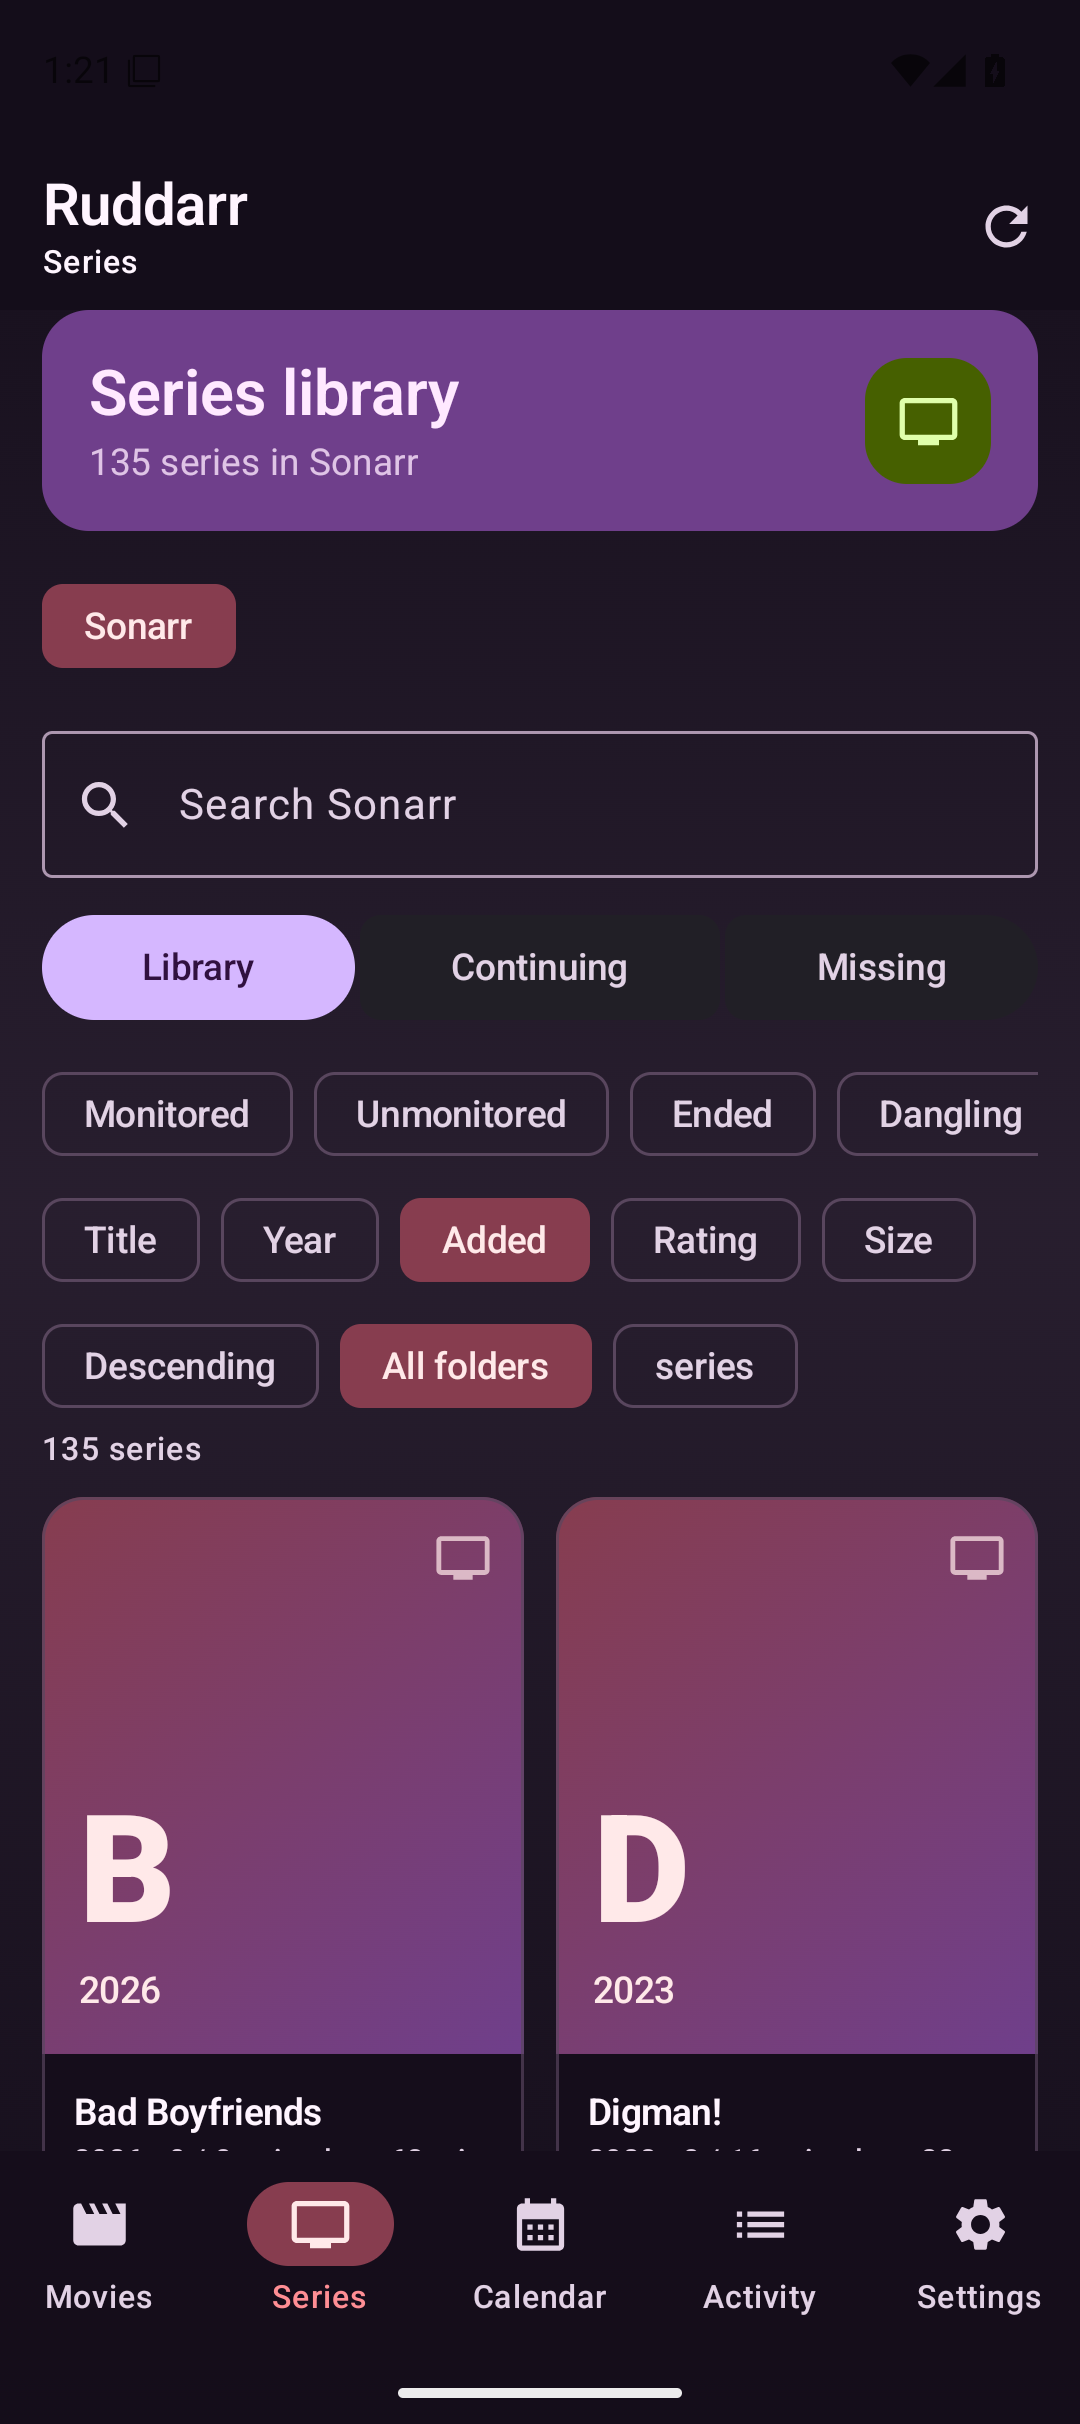
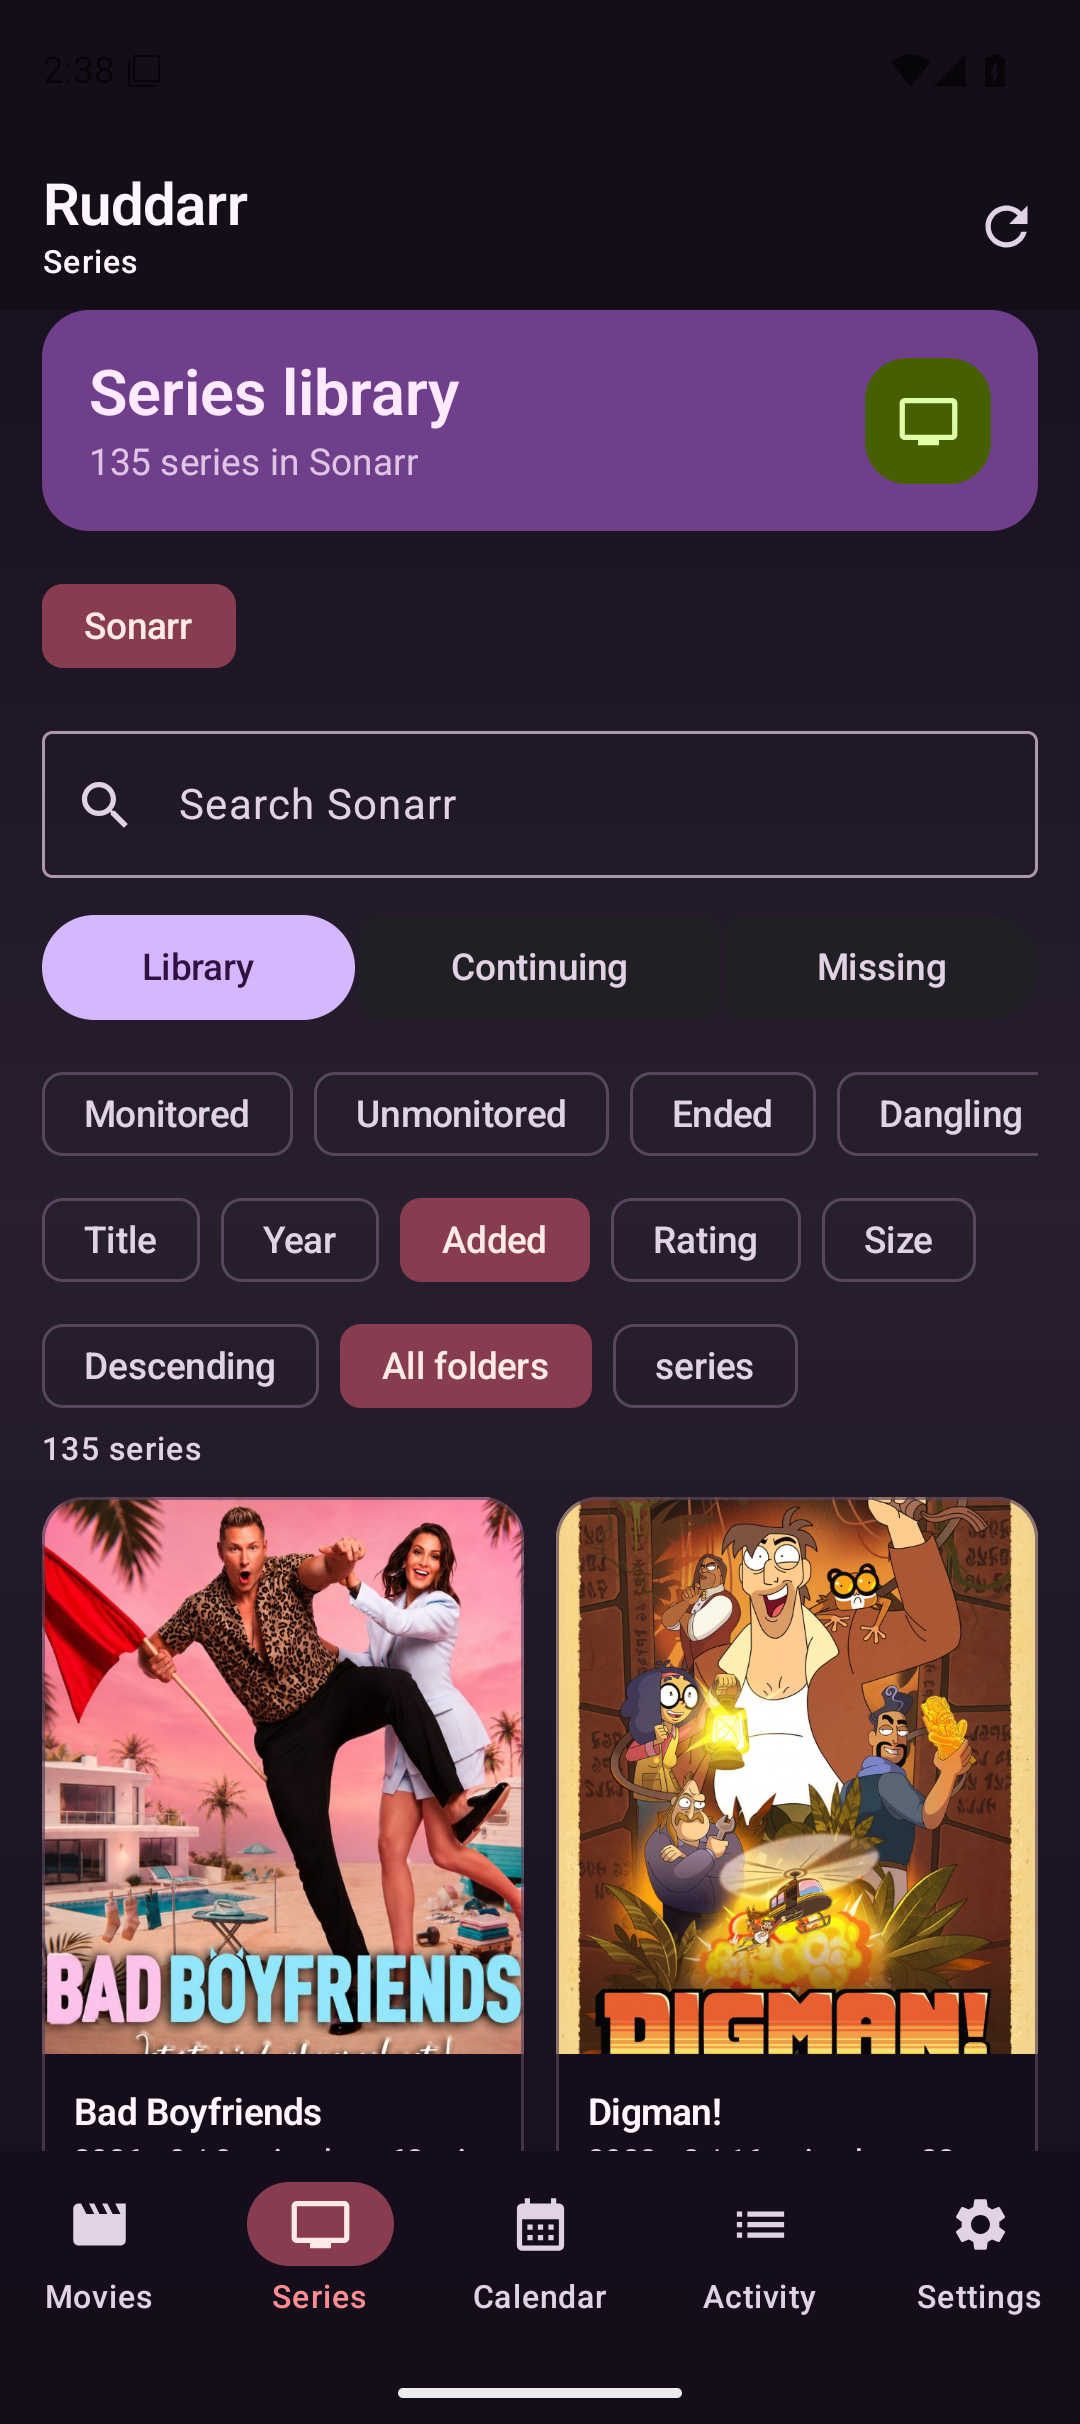
Fix Android library cover loading

Changed region(s): [[0.0306, 0.6188, 0.9778, 0.8663]]

diff --git a/app/src/main/java/uk/bleier/ruddarr/MainActivity.kt b/app/src/main/java/uk/bleier/ruddarr/MainActivity.kt
@@ -444,7 +444,7 @@ private fun MediaScreen(modifier: Modifier, service: ServiceType, state: AppStat
                 verticalArrangement = Arrangement.spacedBy(12.dp),
                 modifier = Modifier.fillMaxSize(),
             ) {
-                items(filtered, key = { "${service.name}-${it.id}-${it.title}" }) { record -> MediaCard(record) { if (record.raw.has("id")) viewModel.open(record) else viewModel.preview(record) }
+                items(filtered, key = { "${service.name}-${it.id}-${it.title}" }) { record -> MediaCard(record, record.posterUrl(instance)) { if (record.raw.has("id")) viewModel.open(record) else viewModel.preview(record) }
                 }
             }
         }
@@ -494,7 +494,7 @@ private fun List<MediaRecord>.filterAndSort(
 }
 
 @Composable
-private fun MediaCard(record: MediaRecord, onClick: () -> Unit) {
+private fun MediaCard(record: MediaRecord, posterUrl: String?, onClick: () -> Unit) {
     val colors = MaterialTheme.colorScheme
     val posterBase = if (record.service == ServiceType.RADARR) colors.primaryContainer else colors.secondaryContainer
     val posterAccent = if (record.service == ServiceType.RADARR) colors.tertiaryContainer else colors.primaryContainer
@@ -537,7 +537,7 @@ private fun MediaCard(record: MediaRecord, onClick: () -> Unit) {
                     tint = if (record.service == ServiceType.RADARR) colors.onPrimaryContainer.copy(alpha = 0.72f) else colors.onSecondaryContainer.copy(alpha = 0.72f),
                 )
                 AsyncImage(
-                    model = record.posterUrl,
+                    model = posterUrl,
                     contentDescription = "Poster for ${record.title}",
                     modifier = Modifier.fillMaxSize(),
                     contentScale = ContentScale.Crop,
@@ -567,7 +567,7 @@ private fun MediaSheet(record: MediaRecord, state: AppState, viewModel: RuddarrV
         ) {
             item {
                 Row(verticalAlignment = Alignment.CenterVertically) {
-                    AsyncImage(record.posterUrl, "Poster for ${record.title}", Modifier.size(width = 92.dp, height = 138.dp).clip(RoundedCornerShape(12.dp)), contentScale = ContentScale.Crop)
+                    AsyncImage(record.posterUrl(instance), "Poster for ${record.title}", Modifier.size(width = 92.dp, height = 138.dp).clip(RoundedCornerShape(12.dp)), contentScale = ContentScale.Crop)
                     Spacer(Modifier.width(16.dp))
                     Column(Modifier.weight(1f)) {
                         Text(record.title, style = MaterialTheme.typography.headlineSmall, fontWeight = FontWeight.SemiBold)
@@ -1238,7 +1238,7 @@ private fun CalendarScreen(modifier: Modifier, state: AppState, viewModel: Rudda
                                     MaterialTheme.colorScheme.onSecondaryContainer
                                 },
                             )
-                            AsyncImage(record.posterUrl, null, Modifier.fillMaxSize(), contentScale = ContentScale.Crop)
+                            AsyncImage(record.posterUrl(viewModel.instanceFor(record)), null, Modifier.fillMaxSize(), contentScale = ContentScale.Crop)
                         }
                         Spacer(Modifier.width(12.dp))
                         Column(Modifier.weight(1f)) {

diff --git a/app/src/main/java/uk/bleier/ruddarr/domain/Models.kt b/app/src/main/java/uk/bleier/ruddarr/domain/Models.kt
@@ -128,18 +128,25 @@ data class MediaRecord(
         get() = raw.optJSONObject("movieFile")?.optJSONObject("quality")?.optJSONObject("quality")?.optString("name").orEmpty()
     val status: String get() = raw.optString("status").replaceFirstChar { it.uppercase() }
     val genres: List<String> get() = raw.optJSONArray("genres").toStringList()
-    val posterUrl: String?
+    private val poster: JSONObject?
         get() = raw.optJSONArray("images")?.let { images ->
             List(images.length()) { images.optJSONObject(it) }
                 .firstOrNull { it?.optString("coverType") == "poster" }
-                ?.optString("remoteUrl")
-                ?.takeIf { it.isNotBlank() }
         } ?: raw.optJSONObject("series")?.optJSONArray("images")?.let { images ->
             List(images.length()) { images.optJSONObject(it) }
                 .firstOrNull { it?.optString("coverType") == "poster" }
-                ?.optString("remoteUrl")
-                ?.takeIf { it.isNotBlank() }
         }
+
+    fun posterUrl(instance: InstanceConfig?): String? {
+        val image = poster ?: return null
+        val localPath = image.optString("url").takeIf { it.isNotBlank() }
+        val localUrl = when {
+            localPath == null -> null
+            localPath.startsWith("http://") || localPath.startsWith("https://") -> localPath
+            else -> instance?.candidates?.firstOrNull()?.let { base -> "$base/${localPath.trimStart('/')}" }
+        }
+        return localUrl ?: image.optString("remoteUrl").takeIf { it.isNotBlank() }
+    }
     val details: String
         get() = buildList {
             if (year > 0) add(year.toString())

diff --git a/app/src/androidTest/java/uk/bleier/ruddarr/domain/ModelsTest.kt b/app/src/androidTest/java/uk/bleier/ruddarr/domain/ModelsTest.kt
@@ -218,6 +218,25 @@ class ModelsTest {
     }
 
     @Test
+    fun mediaRecordUsesTheLocalArrCoverBeforeAnExternalPoster() {
+        val record = MediaRecord(ServiceType.RADARR, JSONObject().apply {
+            put("images", org.json.JSONArray().put(JSONObject().apply {
+                put("coverType", "poster")
+                put("url", "/MediaCover/42/poster.jpg?lastWrite=123")
+                put("remoteUrl", "https://image.example.test/poster.jpg")
+            }))
+        })
+        val instance = InstanceConfig(
+            service = ServiceType.RADARR,
+            label = "Local Radarr",
+            primaryUrl = "http://radarr.local:7878/",
+            apiKey = "key",
+        )
+
+        assertEquals("http://radarr.local:7878/MediaCover/42/poster.jpg?lastWrite=123", record.posterUrl(instance))
+    }
+
+    @Test
     fun releaseDownloadPayloadTargetsMovieSeasonOrEpisode() {
         val release = JSONObject().put("guid", "release-guid").put("indexerId", 17)
         val movie = MediaRecord(ServiceType.RADARR, JSONObject().put("id", 10))

diff --git a/README.md b/README.md
@@ -7,6 +7,7 @@ A native Kotlin and Jetpack Compose client for self-hosted Radarr and Sonarr ins
 - Manage Radarr movies and Sonarr series across multiple instances
 - Search, add, edit, monitor, delete, and trigger automatic searches
 - Browse movies, series, seasons, episodes, calendar releases, queue activity, and history
+- Load library covers directly from local Arr instances, with an external-image fallback
 - Send interactive releases to the correct movie, season, or episode
 - Manually import queued files and manage Arr webhooks
 - Filter and sort libraries, calendar items, activity, and release results locally

diff --git a/CHANGELOG.md b/CHANGELOG.md
@@ -41,6 +41,7 @@ and this project adheres to [Semantic Versioning](https://semver.org/spec/v2.0.0
 - Several dozen internal code improvements
 
 ### Fixed
+- Load Android library covers from the local Arr media server
 - Read Sonarr episode-file statistics for Android and Wear OS series summaries
 - Keep Wear OS library metric labels readable on small round displays
 - Fixed loading local Radarr and Sonarr instances served over HTTP
